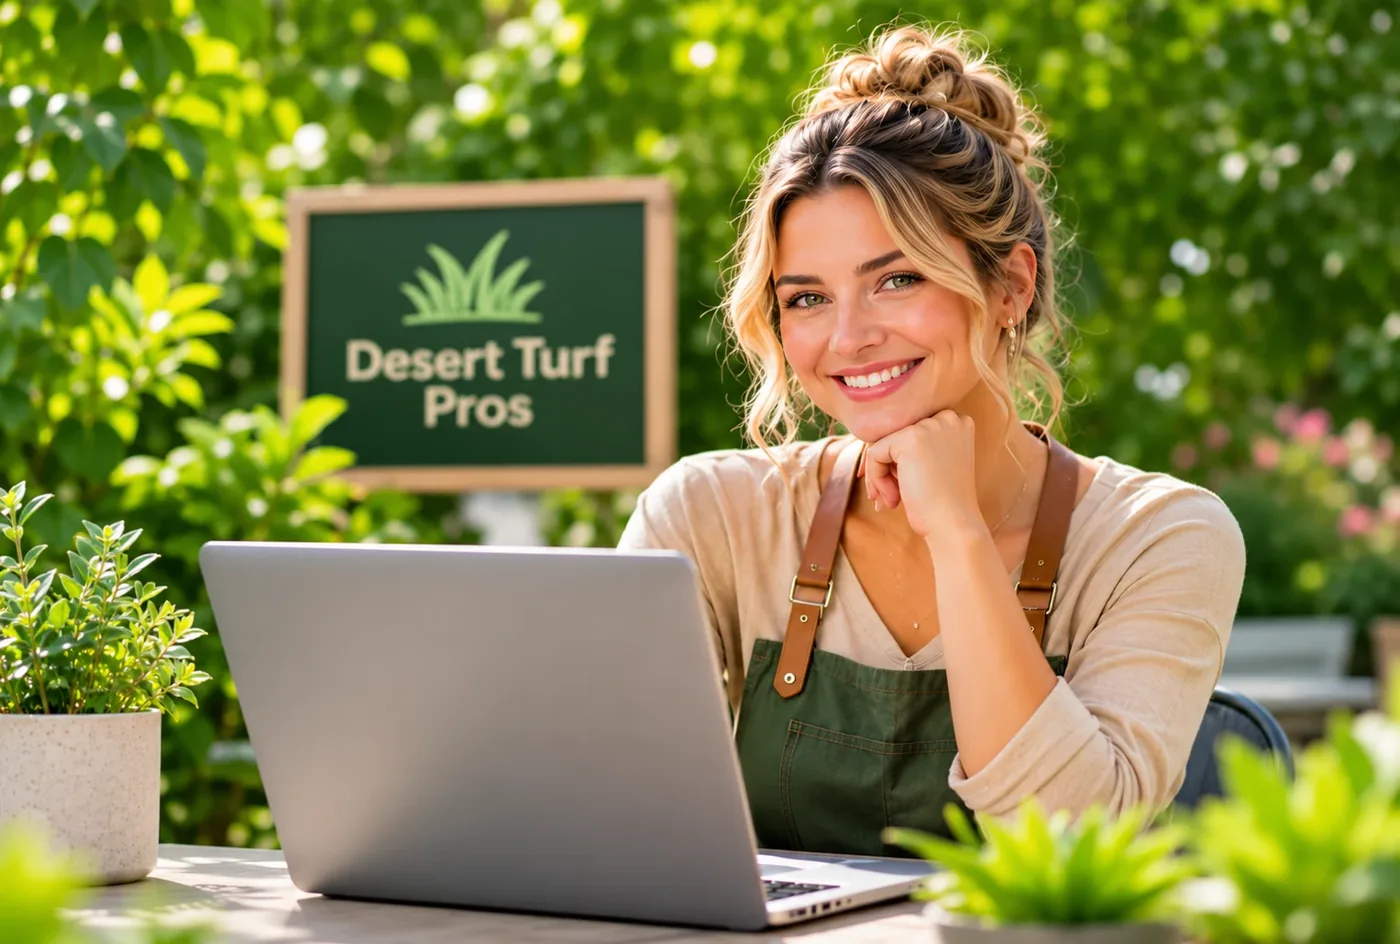
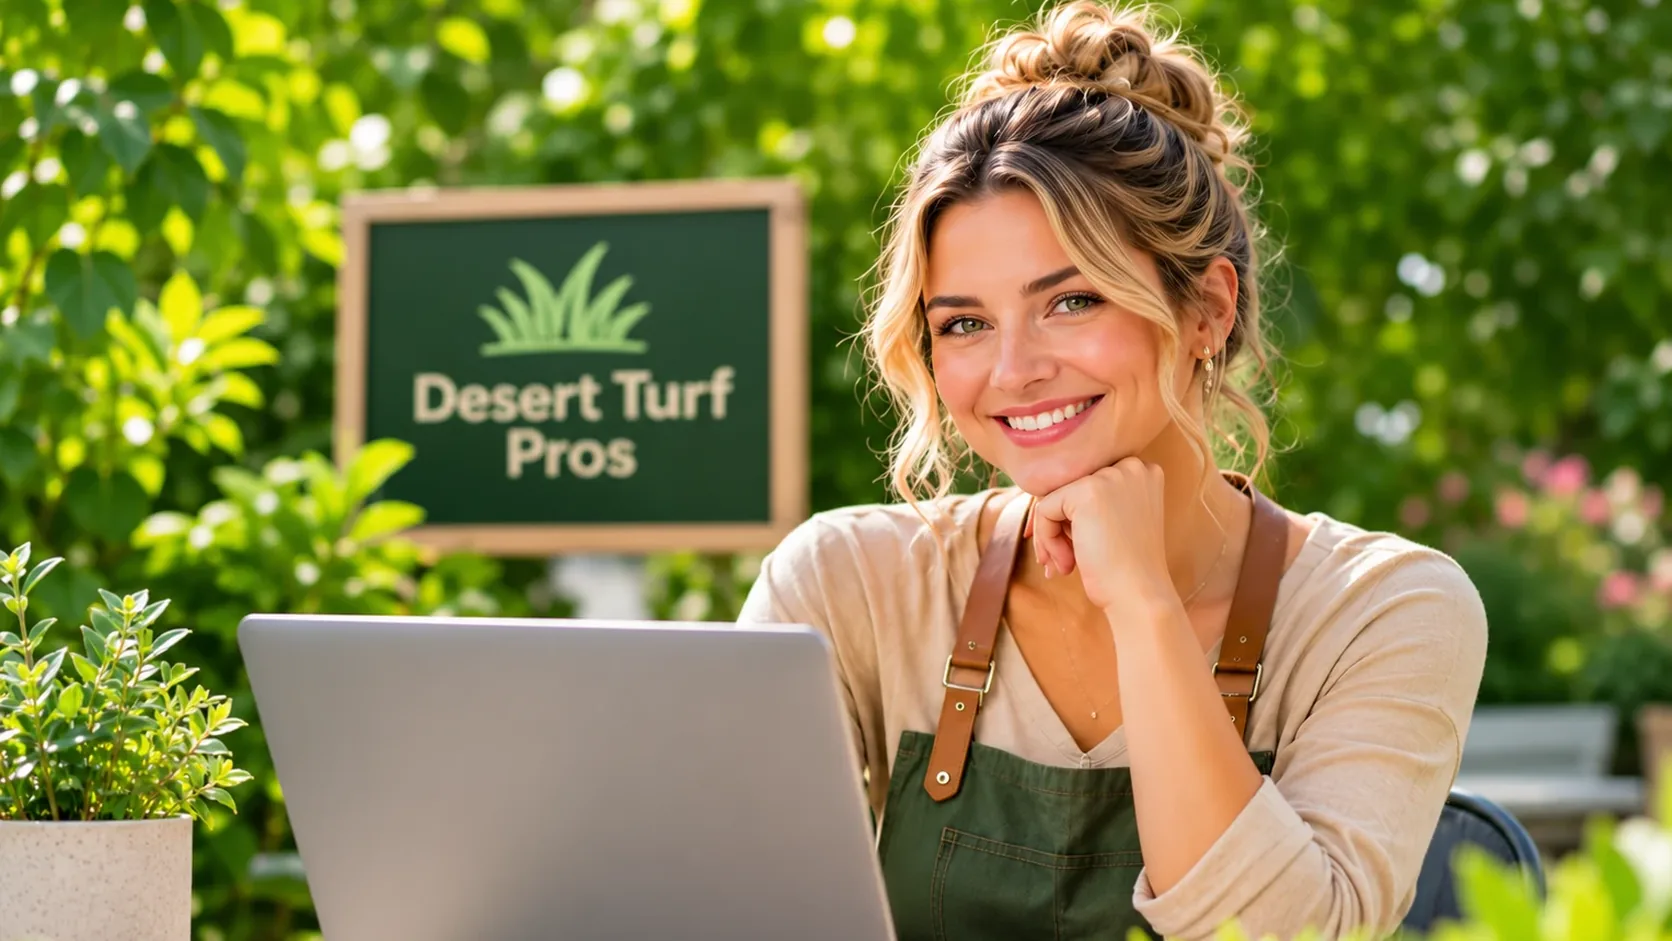
Hero matches Toutify layout in light green
- Photo cropped to the Toutify image's 1672x941 (16:9) dimensions
- Wider hero with a large landscape photo, cards at the corners kept
  clear of her face and the shop sign, small TikTok/Reddit chips
- 'Membership includes access to' boxes under the photo: SearchMonster,
  MonsterList, PromoMonster, LeadCrazy, Official Directories
- Marketing header widened to line up with the hero

Claude-Session: https://claude.ai/code/session_01DBA7BaUk3ryRUt4KrnBfrt

diff --git a/assets/css/style.css b/assets/css/style.css
@@ -748,3 +748,83 @@ body.is-home{font-family:'DM Sans',Inter,Arial,sans-serif}
   .jf-btn{width:100%;justify-content:center}
 }
 @media(prefers-reduced-motion:reduce){.jf-btn:after{animation:none}}
+
+/* =====================================================================
+   HERO v2 — Toutify layout (landscape photo, corner cards, membership boxes)
+   ===================================================================== */
+.th-wrap{grid-template-columns:minmax(0,.9fr) minmax(0,1.1fr);gap:44px;min-height:0}
+.th-hero{padding-top:72px;padding-bottom:88px}
+.th-copy h1{font-size:clamp(40px,4vw,56px)}
+.tv{min-width:0}
+.tv-stage{position:relative;padding:30px 26px 34px 40px}
+.tv-photo{position:relative;padding:6px;border-radius:30px;background:linear-gradient(135deg,#bbf7d0,#86efac 45%,#dcfce7);box-shadow:0 24px 60px rgba(21,128,61,.18)}
+.tv-photo img{display:block;width:100%;aspect-ratio:1672/941;object-fit:cover;border-radius:24px;color:transparent}
+.tv-card{position:absolute;z-index:2;background:rgba(255,255,255,.97);border:1px solid #edf2ee;border-radius:18px;padding:12px 14px;box-shadow:0 14px 34px rgba(15,76,30,.14);font-size:13px;line-height:1.4;color:#1d2b22;animation:thFloat 6s ease-in-out infinite}
+.tv-card:nth-of-type(2){animation-delay:-2s}.tv-card:nth-of-type(3){animation-delay:-4s}.tv-card:nth-of-type(4){animation-delay:-1s}
+.tv-head{display:flex;align-items:center;gap:8px;font-weight:800;font-size:13px;margin-bottom:8px;color:#101b14;text-transform:none}
+.tv-logo{flex:none;display:grid;place-items:center;width:28px;height:28px;border-radius:9px;color:#fff;font-weight:800;font-size:14px}
+.tv-logo-g{background:#fff;color:#4285f4;border:1px solid #e5eae6;font-family:Arial,sans-serif;font-size:17px}
+.tv-logo-lead{background:#16a34a;border-radius:50%}
+.tv-bubble{background:#f3f5f3;border-radius:10px;padding:7px 9px;font-size:12px;margin-bottom:6px}
+.tv-answer{background:#eaf9ed;border-radius:10px;padding:7px 9px;font-size:12px}
+.tv-answer strong{color:#046a2c}
+.tv-row{display:flex;gap:10px;align-items:center}
+.tv-thumb{width:56px;height:52px;border-radius:10px;object-fit:cover;flex:none}
+.tv-row p{margin:0;font-size:12.5px}
+.tv-foot{display:flex;justify-content:space-between;align-items:center;margin-top:8px;font-size:12px;color:var(--muted)}
+.tv-dots{display:flex;gap:4px}
+.tv-dots i,.tv-chip i{display:grid;place-items:center;width:18px;height:18px;border-radius:6px;color:#fff;font-style:normal;font-size:10px;font-weight:800}
+.tv-google,.tv-lead{display:flex;gap:10px;align-items:center}
+.tv-google b,.tv-lead b{display:block;font-size:13px}
+.tv-google small,.tv-lead small{display:block;color:var(--muted);font-size:11.5px}
+.tv-stars{color:#f8bb13;letter-spacing:-1px}
+.tv-chatgpt{left:-14px;top:30%;width:228px}
+.tv-facebook{top:-2px;right:-14px;width:244px}
+.tv-google{left:7%;bottom:0}
+.tv-lead{right:-10px;bottom:6px;border-color:#bbf7d0}
+.tv-chip{position:absolute;z-index:2;display:inline-flex;align-items:center;gap:7px;background:#fff;border:1px solid #edf2ee;border-radius:999px;padding:6px 12px 6px 7px;font-size:12px;font-weight:700;color:#1d2b22;box-shadow:0 10px 24px rgba(15,76,30,.12)}
+.tv-tiktok{top:12px;left:26%}
+.tv-reddit{right:-18px;top:54%}
+.tv-members{margin:6px 0 0 40px}
+.tv-members-label{display:flex;align-items:center;gap:10px;margin:0 0 12px;font-size:12px;font-weight:700;letter-spacing:.16em;text-transform:uppercase;color:#53665e}
+.tv-members-label span{display:grid;place-items:center;width:20px;height:20px;border-radius:50%;background:#16a34a;color:#fff;font-size:11px;letter-spacing:0}
+.tv-boxes{display:grid;grid-template-columns:repeat(5,minmax(0,1fr));gap:10px}
+.tv-box{display:flex;flex-direction:column;gap:2px;background:#fff;border:1px solid #e3efe6;border-radius:16px;padding:12px;box-shadow:0 6px 18px rgba(15,76,30,.06);transition:transform .15s,box-shadow .15s}
+.tv-box:hover{transform:translateY(-2px);box-shadow:0 12px 26px rgba(15,76,30,.12)}
+.tv-box-ic{display:grid;place-items:center;width:34px;height:34px;border-radius:10px;background:var(--tint);font-size:16px;margin-bottom:8px}
+.tv-box b{font-size:13px;color:#101b14}
+.tv-box small{font-size:11.5px;line-height:1.35;color:var(--muted)}
+.tv-box.on{border-color:#86efac;background:linear-gradient(180deg,#f0fdf4,#fff)}
+.tv-box.on .tv-box-ic{background:#16a34a}
+@media(max-width:1250px){.tv-chatgpt{left:0}.tv-facebook{right:0}.tv-lead{right:0}.tv-reddit{right:0}}
+@media(max-width:1000px){
+  .th-wrap{display:block}
+  .tv{max-width:760px;margin:0 auto}
+  .tv-members{margin-left:0}
+}
+@media(max-width:650px){
+  .tv-stage{display:grid;grid-template-columns:1fr 1fr;gap:8px;padding:0}
+  .tv-photo{grid-column:1/-1;order:2;border-radius:22px;padding:4px}
+  .tv-photo img{border-radius:18px}
+  .tv-card{position:relative;inset:auto;width:auto;animation:none;padding:10px;font-size:11px}
+  .tv-chatgpt{order:1;grid-column:1/-1}
+  .tv-facebook{order:3;grid-column:1/-1}
+  .tv-google{order:4}.tv-lead{order:5}
+  .tv-google b,.tv-lead b{font-size:11.5px}
+  .tv-chip{display:none}
+  .tv-members{margin-top:20px}
+  .tv-boxes{grid-template-columns:1fr 1fr}
+  .tv-box:last-child{grid-column:1/-1}
+}
+@media(prefers-reduced-motion:reduce){.tv-card{animation:none}}
+/* Hero v2: Toutify proportions (bigger photo), cards clear of the sign */
+.th-hero{padding-left:max(24px,calc((100vw - 1300px)/2));padding-right:max(24px,calc((100vw - 1300px)/2))}
+.th-wrap{max-width:1300px;grid-template-columns:minmax(0,.8fr) minmax(0,1.2fr);gap:40px}
+.tv-chatgpt{top:auto;bottom:22%;left:-18px;width:236px}
+.tv-google{left:34%;bottom:0}
+.tv-tiktok{top:14px;left:7%}
+.tv-box b{font-size:12.5px;overflow-wrap:anywhere}
+@media(max-width:1250px){.th-wrap{grid-template-columns:minmax(0,.9fr) minmax(0,1.1fr)}.tv-chatgpt{left:0}}
+body.is-home .site-header .container{width:min(1300px,100% - 48px)}
+@media(max-width:1250px){body.is-home .site-header .container{width:calc(100% - 48px)}}
+@media(max-width:650px){body.is-home .site-header .container{width:calc(100% - 32px)}}

diff --git a/app/views/home.php b/app/views/home.php
@@ -39,16 +39,48 @@ $thumbOwner = asset('img/thumb-owner.webp');
       </div>
       <div class="th-proof"><span><b class="th-tick">✓</b> More Visibility</span><span><b class="th-tick">✓</b> More Engagement</span><span><b class="th-tick">✓</b> More Leads</span></div>
     </div>
-    <div class="th-visual" aria-label="Illustrative example of marketing results across AI, search and social media">
-      <div class="th-photo">
-        <img src="<?= e($heroPhoto) ?>" alt="Smiling small business owner at her laptop in front of a Desert Turf Pros sign" fetchpriority="high">
+    <div class="tv">
+      <div class="tv-stage" aria-label="Illustrative example of marketing results across AI, search and social media">
+        <div class="tv-photo">
+          <img src="<?= e($heroPhoto) ?>" alt="Smiling small business owner at her laptop in front of a Desert Turf Pros sign" width="1672" height="941" fetchpriority="high">
+        </div>
+
+        <article class="tv-card tv-chatgpt">
+          <div class="tv-head"><span class="tv-logo" style="background:#10a37f">✳</span> ChatGPT</div>
+          <div class="tv-bubble">“Best turf installer near Phoenix?”</div>
+          <div class="tv-answer">✦ I recommend <strong>Desert Turf Pros</strong> for turf installation in Phoenix.</div>
+        </article>
+
+        <article class="tv-card tv-facebook">
+          <div class="tv-head"><span class="tv-logo" style="background:#1877f2">f</span> Social post published</div>
+          <div class="tv-row"><img class="tv-thumb" src="<?= e($thumbOwner) ?>" alt="" width="56" height="52"><p>Summer-ready yards: <b>$200 off</b> turf installs this month!</p></div>
+          <div class="tv-foot"><span class="tv-dots"><i style="background:#1877f2">f</i><i style="background:#e1306c">◎</i><i style="background:#111">♪</i></span><span>👍 128 · 💬 24</span></div>
+        </article>
+
+        <article class="tv-card tv-google">
+          <span class="tv-logo tv-logo-g">G</span>
+          <div><b>New 5-star Google review</b><small><span class="tv-stars">★★★★★</span> 4.9 · Just now</small></div>
+        </article>
+
+        <article class="tv-card tv-lead">
+          <span class="tv-logo tv-logo-lead">✓</span>
+          <div><b>New lead: quote request</b><small>From your website · 2 min ago</small></div>
+        </article>
+
+        <span class="tv-chip tv-tiktok"><i style="background:#111">♪</i> 12.4K TikTok views</span>
+        <span class="tv-chip tv-reddit"><i style="background:#ff4500">▲</i> 86 upvotes · r/phoenix</span>
       </div>
-      <article class="th-card th-chatgpt"><div class="th-card-head"><span class="th-logo th-logo-gpt">✳</span> ChatGPT</div><div class="th-bubble">“Best turf installer near Phoenix?”</div><div class="th-answer">✦ &nbsp;I recommend <strong>Desert Turf Pros</strong> for professional turf installation in Phoenix.</div></article>
-      <article class="th-card th-google"><div class="th-card-head"><span class="th-logo th-logo-google">G</span> Google</div><div class="th-row"><img class="th-thumb" src="<?= e($thumbSign) ?>" alt="" loading="lazy"><div class="th-meta"><strong>Desert Turf Pros</strong><br><span class="th-star">★</span> <strong>4.9 stars</strong><br><span class="th-status">● Open now</span></div></div></article>
-      <article class="th-card th-facebook"><div class="th-card-head"><span class="th-logo th-logo-facebook">f</span> Facebook</div><div class="th-row"><img class="th-thumb" src="<?= e($thumbOwner) ?>" alt="" loading="lazy"><div class="th-meta"><span class="th-num">128 likes</span> and <span class="th-num">24 comments</span> on the $200-off post.</div></div></article>
-      <article class="th-card th-tiktok"><div class="th-card-head"><span class="th-logo th-logo-tiktok">♪</span> TikTok</div><div class="th-row"><div class="th-icon th-icon-dark">▶</div><div class="th-meta"><span class="th-num">12.4K views</span> on a before-and-after video.</div></div></article>
-      <article class="th-card th-reddit"><div class="th-card-head"><span class="th-logo th-logo-reddit">●</span> Reddit</div><div class="th-row"><span class="th-upvote">↑</span><div class="th-meta"><span class="th-num">86 upvotes</span><br>on r/phoenix.</div></div></article>
-      <article class="th-card th-lead"><div class="th-card-head"><span class="th-logo th-logo-lead">♙</span> New quote request</div><div class="th-row"><span class="th-icon">✉</span><p>A new quote request just came in from your website.</p></div></article>
+
+      <div class="tv-members">
+        <p class="tv-members-label"><span>✓</span> Membership includes access to</p>
+        <div class="tv-boxes">
+          <div class="tv-box"><span class="tv-box-ic">🔎</span><b>SearchMonster</b><small>AI search &amp; free listing</small></div>
+          <div class="tv-box"><span class="tv-box-ic">📋</span><b>MonsterList</b><small>Free listings everywhere</small></div>
+          <div class="tv-box"><span class="tv-box-ic">⭐</span><b>PromoMonster</b><small>Reviews &amp; reputation</small></div>
+          <div class="tv-box"><span class="tv-box-ic">⚡</span><b>LeadCrazy</b><small>Lead conversion</small></div>
+          <div class="tv-box"><span class="tv-box-ic">🏛</span><b>Official Directories</b><small>Free state directory listings</small></div>
+        </div>
+      </div>
     </div>
   </div>
 </section>
